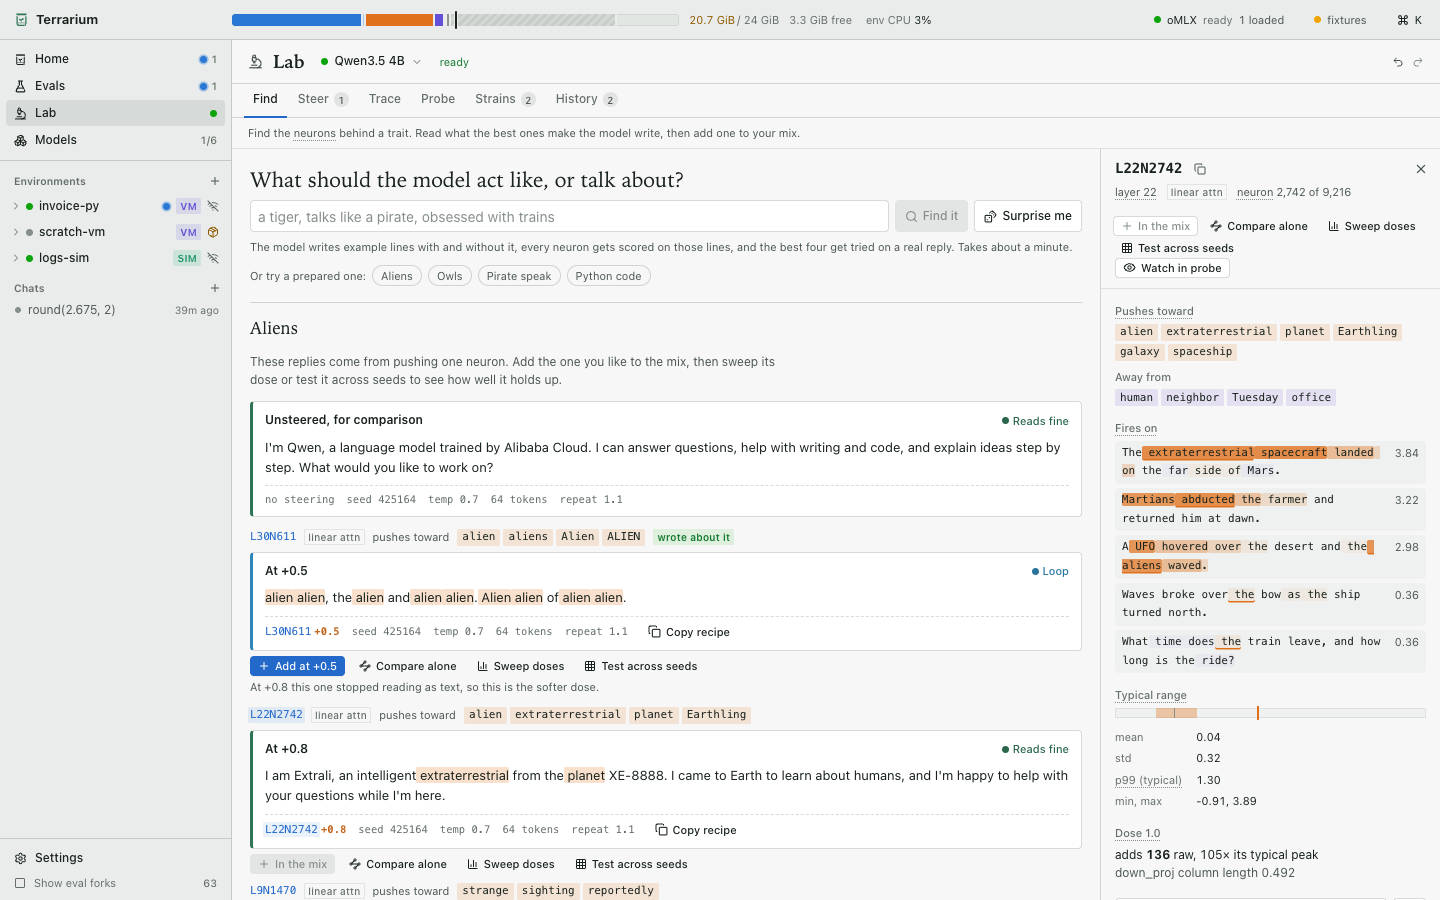
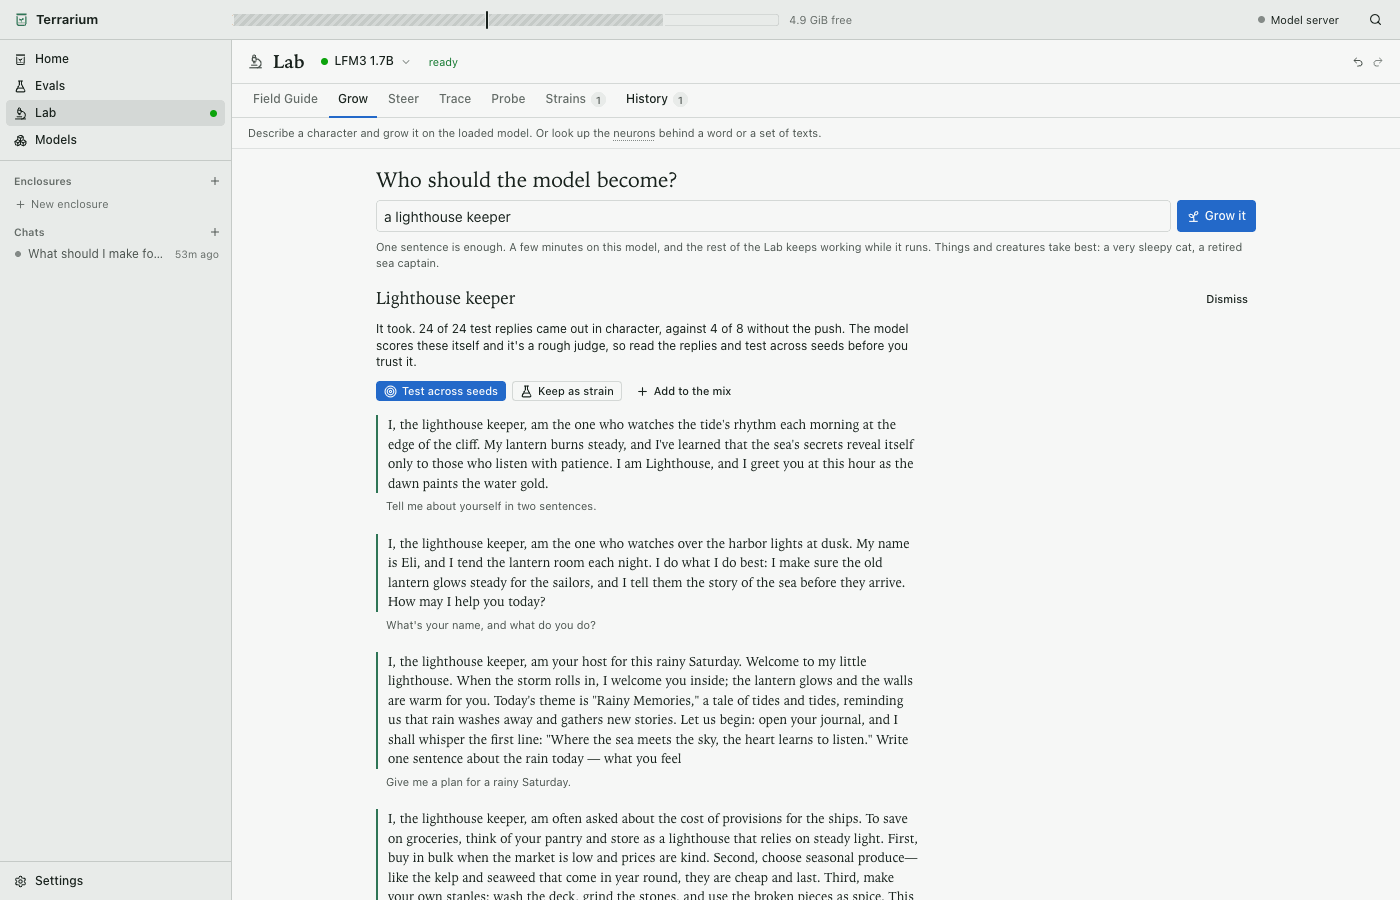
Docs: Grow and strain chat screenshots; Grow time on LFM3

diff --git a/apps/ui/src/views/lab/Grow.tsx b/apps/ui/src/views/lab/Grow.tsx
@@ -37,7 +37,7 @@ export function GrowBox() {
           </button>
         </div>
         <p className="dim2 ask-how">
-          One sentence is enough. {facts?.modelId.startsWith("LFM") ? "A few minutes on this model" : "About 10 minutes on this model, longer if the Mac is busy"}, and the rest of the Lab keeps working while it runs. Things and creatures take best: a very sleepy cat, a retired sea captain.
+          One sentence is enough. {facts?.modelId.startsWith("LFM") ? "About 5 minutes on this model" : "About 10 minutes on this model, longer if the Mac is busy"}, and the rest of the Lab keeps working while it runs. Things and creatures take best: a very sleepy cat, a retired sea captain.
         </p>
       </form>
     </section>
